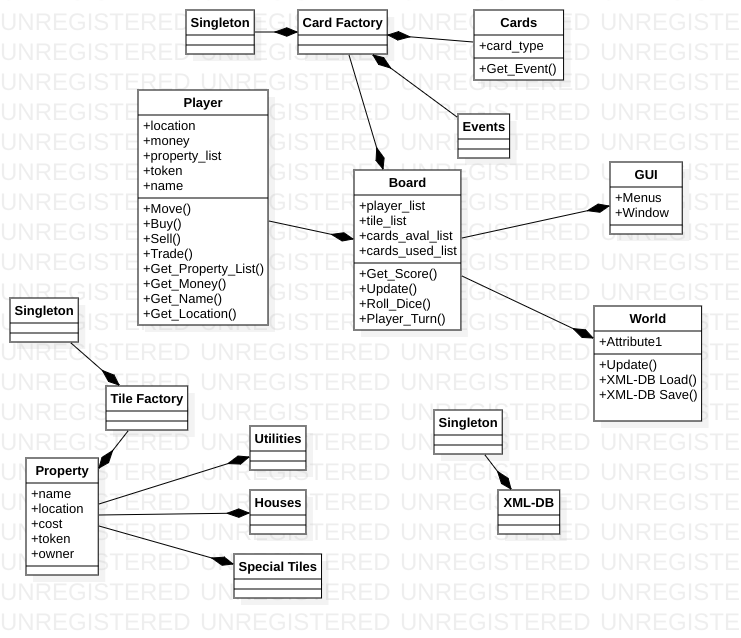
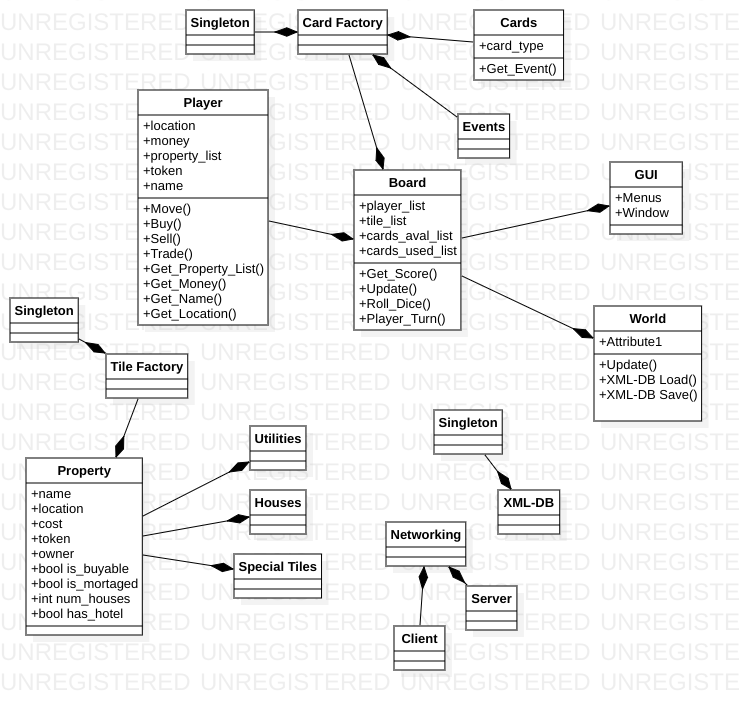
Updated UML, Prototype networking classes

diff --git a/src/Client.java b/src/Client.java
@@ -1,0 +1,63 @@
+// ========================================
+// Client.java
+// ========================================
+
+// Imports
+import java.net.*; 
+import java.io.*; 
+
+public class Client
+{
+
+    // initialize socket and input output streams 
+    private Socket socket            = null; 
+    private DataInputStream  input   = null; 
+    private DataOutputStream out     = null; 
+
+	// Default constructor
+	public Client(String address, int port)
+    	{ 
+        // establish a connection 
+        try
+        { 
+            socket = new Socket(address, port); 
+            System.out.println("Connected"); 
+  
+            // takes input from terminal 
+            input  = new DataInputStream(System.in); 
+  
+            // sends output to the socket 
+            out    = new DataOutputStream(socket.getOutputStream()); 
+        } 
+        catch(UnknownHostException u) 
+        { 
+            System.out.println(u); 
+        } 
+        catch(IOException i) 
+        { 
+            System.out.println(i); 
+        } 
+  
+        // string to read message from input 
+        String line = ""; 
+  
+        // keep reading until "Over" is input 
+        while (!line.equals("Over")) 
+        { 
+            try
+            { 
+                line = input.readLine(); 
+                out.writeUTF(line); 
+            } 
+            catch(IOException i) 
+            { 
+                System.out.println(i); 
+            } 
+        } 
+
+	}
+    public static void main(String args[]) 
+    { 
+        Client client = new Client("127.0.0.1", 5000); 
+    } 
+}

diff --git a/src/Server.java b/src/Server.java
@@ -1,0 +1,65 @@
+// ========================================
+// Server.java
+// ========================================
+
+// Imports
+import java.net.*; 
+import java.io.*; 
+
+public class Server
+{
+    //initialize socket and input stream 
+    private Socket          socket   = null; 
+    private ServerSocket    server   = null; 
+    private DataInputStream in       =  null; 
+
+	// Default constructor
+	public Server(int port)
+    	{ 
+		// starts server and waits for a connection 
+		try
+		{ 
+		    server = new ServerSocket(port); 
+		    System.out.println("Server started"); 
+	  
+		    System.out.println("Waiting for a client ..."); 
+	  
+		    socket = server.accept(); 
+		    System.out.println("Client accepted"); 
+	  
+		    // takes input from the client socket 
+		    in = new DataInputStream( 
+		        new BufferedInputStream(socket.getInputStream())); 
+	  
+		    String line = ""; 
+	  
+		    // reads message from client until "Over" is sent 
+		    while (!line.equals("Over")) 
+		    { 
+		        try
+		        { 
+		            line = in.readUTF(); 
+		            System.out.println(line); 
+	  
+		        } 
+		        catch(IOException i) 
+		        { 
+		            System.out.println(i); 
+		        } 
+		    } 
+		    System.out.println("Closing connection"); 
+	  
+		    // close connection 
+		    socket.close(); 
+		    in.close(); 
+		} 
+		catch(IOException i) 
+		{ 
+		    System.out.println(i); 
+		} 
+    	} 
+   public static void main(String args[]) 
+    { 
+        Server server = new Server(5000); 
+    } 
+}
